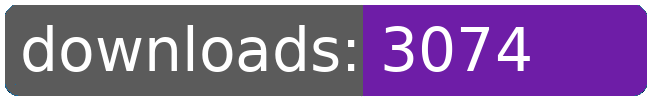
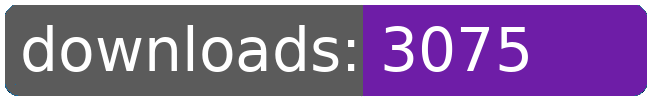
dl log written

Changed region(s): [[0.7692, 0.27, 0.8308, 0.72]]

diff --git a/README.md b/README.md
@@ -21,8 +21,8 @@
 		<td>3013</td>
 		<td>3041</td>
 		<td>3068</td>
-		<td>3074</td>
-		<td>+ 6</td>
+		<td>3075</td>
+		<td>+ 7</td>
 	</tr>
 	<tr>
 		<td>aberrant.kahet.outfitter</td>
@@ -252,8 +252,8 @@
 		<td></td>
 		<td></td>
 		<td></td>
-		<td>42033</td>
-		<td>85</td>
+		<td>42034</td>
+		<td>86</td>
 	</tr>
 </table>
 </sub></sup>
@@ -300,8 +300,8 @@
 		<td>3013</td>
 		<td>3041</td>
 		<td>3068</td>
-		<td>3074</td>
-		<td>+ 6</td>
+		<td>3075</td>
+		<td>+ 7</td>
 	</tr>
 	<tr>
 		<td>capture.archons</td>
@@ -509,8 +509,8 @@
 		<td></td>
 		<td></td>
 		<td></td>
-		<td>42033</td>
-		<td>85</td>
+		<td>42034</td>
+		<td>86</td>
 	</tr>
 </table>
 </sub></sup>
